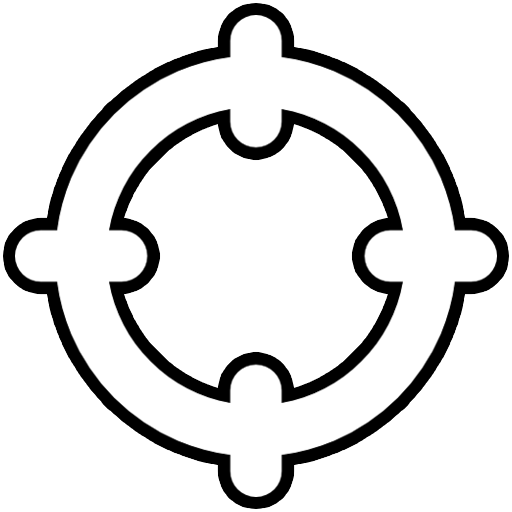
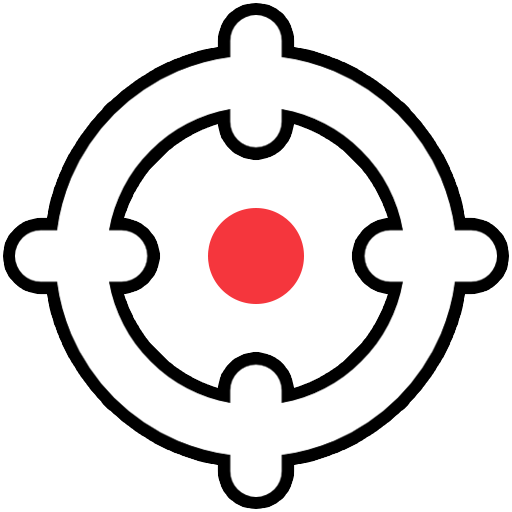
fix

Changed region(s): [[0.4062, 0.4062, 0.5938, 0.5938]]

diff --git a/Assets/PewPew/Scripts/GameController.cs b/Assets/PewPew/Scripts/GameController.cs
@@ -2,6 +2,7 @@ using System.Collections.Generic;
 using UnityEngine;
 using TMPro;
 using Serbull.GameAssets;
+using YG;
 
 public class GameController : MonoBehaviour
 {
@@ -272,6 +273,7 @@ public class GameController : MonoBehaviour
         }
         AddCoinsToShop(100);
         StartCoroutine(WaitAndRespawn(3.0f));
+        YG2.InterstitialAdvShow();
     }
 
     private void EvaluateGameResult()
@@ -285,6 +287,7 @@ public class GameController : MonoBehaviour
             AddCoinsToShop(20);
         }
         StartCoroutine(WaitAndRespawn(3.0f));
+        YG2.InterstitialAdvShow();
     }
 
     private System.Collections.IEnumerator HidePanelAfterDelay(GameObject panel, float delay)
